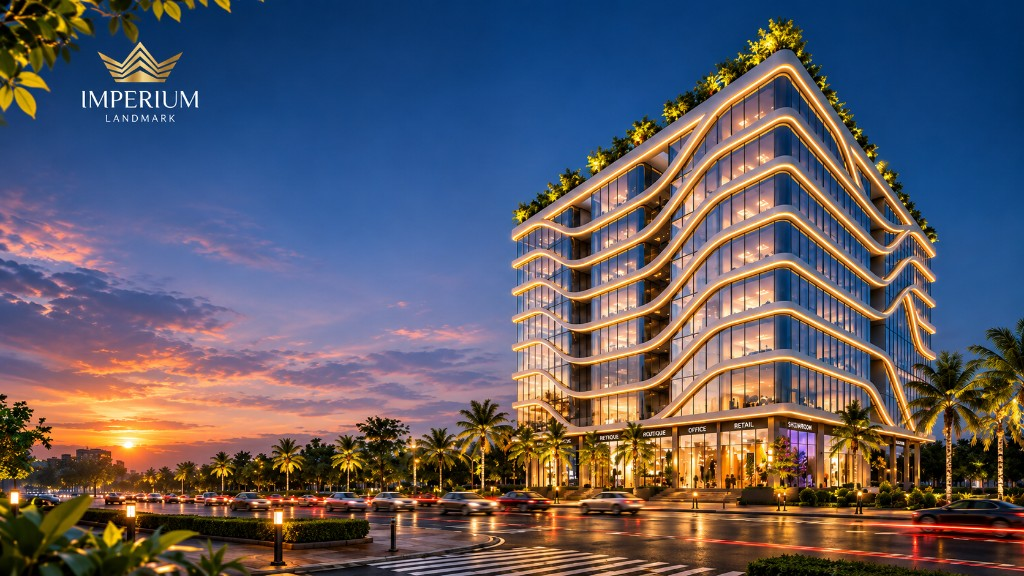
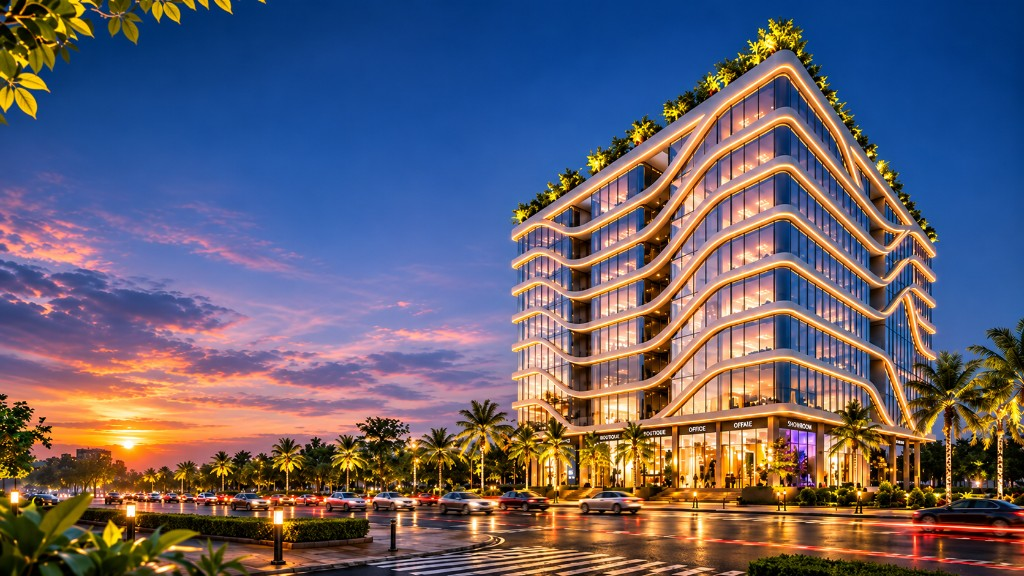
first commit

diff --git a/components/HomeHero.jsx b/components/HomeHero.jsx
@@ -1,4 +1,7 @@
+import Link from "next/link";
 import { IMPERIUM } from "@/lib/imperium";
+
+const GOLD = "#B59461";
 
 export default function HomeHero() {
   return (
@@ -6,18 +9,71 @@ export default function HomeHero() {
       className="relative min-h-[100svh] overflow-hidden bg-[var(--imp-ink)]"
       aria-label={IMPERIUM.name}
     >
+      {/* Desktop skyline */}
       {/* eslint-disable-next-line @next/next/no-img-element */}
       <img
-        src={IMPERIUM.hero.desktop}
+        src={`${IMPERIUM.hero.desktop}?v=4`}
         alt={IMPERIUM.hero.alt}
-        className="absolute inset-0 hidden h-full w-full object-cover md:block"
+        className="absolute inset-0 hidden h-full w-full object-cover object-[72%_center] md:block lg:object-[70%_center]"
       />
+      {/* Phone skyline */}
       {/* eslint-disable-next-line @next/next/no-img-element */}
       <img
-        src={IMPERIUM.hero.phone}
+        src={`${IMPERIUM.hero.phone}?v=4`}
         alt={IMPERIUM.hero.alt}
-        className="absolute inset-0 h-full w-full object-cover md:hidden"
+        className="absolute inset-0 h-full w-full object-cover object-[68%_center] md:hidden"
       />
+
+      {/* Soft readabilty wash over empty sky only */}
+      <div
+        className="pointer-events-none absolute inset-0 bg-gradient-to-r from-black/45 via-black/15 to-transparent md:from-black/35 md:via-black/10"
+        aria-hidden
+      />
+      <div
+        className="pointer-events-none absolute inset-x-0 top-0 h-40 bg-gradient-to-b from-black/35 to-transparent md:h-28"
+        aria-hidden
+      />
+
+      {/* Copy sits in empty sky — left on desktop, upper on phone */}
+      <div className="relative z-[1] mx-auto flex min-h-[100svh] max-w-[1500px] items-start px-5 pb-12 pt-[calc(4.25rem+2.75rem)] sm:px-8 sm:pt-[calc(5rem+3rem)] md:items-center md:pt-[calc(5rem+1.5rem)] lg:px-10 lg:pt-[calc(5.5rem+1rem)]">
+        <div className="w-full max-w-[22rem] sm:max-w-[26rem] md:max-w-[28rem] lg:max-w-[32rem]">
+          {/* eslint-disable-next-line @next/next/no-img-element */}
+          <img
+            src="/imperium-logo.png"
+            alt={IMPERIUM.name}
+            className="h-auto w-[min(100%,15.5rem)] object-contain object-left drop-shadow-[0_8px_28px_rgba(0,0,0,0.45)] sm:w-[min(100%,17.5rem)] md:w-[min(100%,19rem)]"
+            draggable={false}
+          />
+
+          <p
+            className="mt-5 max-w-[20rem] text-[13px] leading-relaxed text-white/90 sm:mt-6 sm:max-w-[22rem] sm:text-[14px] md:text-[15px]"
+            style={{ textShadow: "0 2px 18px rgba(0,0,0,0.55)" }}
+          >
+            Boutique offices &amp; premium retail on Jalna Road.
+          </p>
+
+          <div className="mt-6 flex flex-wrap gap-3 sm:mt-7">
+            <Link
+              href="/contact"
+              className="inline-flex h-11 items-center gap-2 rounded-full px-5 text-[11px] font-semibold uppercase tracking-[0.12em] text-[var(--imp-ink)] shadow-[0_12px_28px_-14px_rgba(0,0,0,0.45)] transition hover:brightness-105 sm:px-6 sm:text-[12px]"
+              style={{
+                background: `linear-gradient(165deg, #d4b06e, ${GOLD} 48%, #8a6a3a)`,
+              }}
+            >
+              Enquire
+              <span aria-hidden>→</span>
+            </Link>
+            <Link
+              href="/gallery"
+              className="inline-flex h-11 items-center gap-2 rounded-full border border-white/55 bg-black/20 px-5 text-[11px] font-semibold uppercase tracking-[0.12em] text-white backdrop-blur-sm transition hover:bg-white/10 sm:px-6 sm:text-[12px]"
+            >
+              View gallery
+              <span aria-hidden>→</span>
+            </Link>
+          </div>
+        </div>
+      </div>
+
       <h1 className="sr-only">{IMPERIUM.name}</h1>
     </section>
   );
